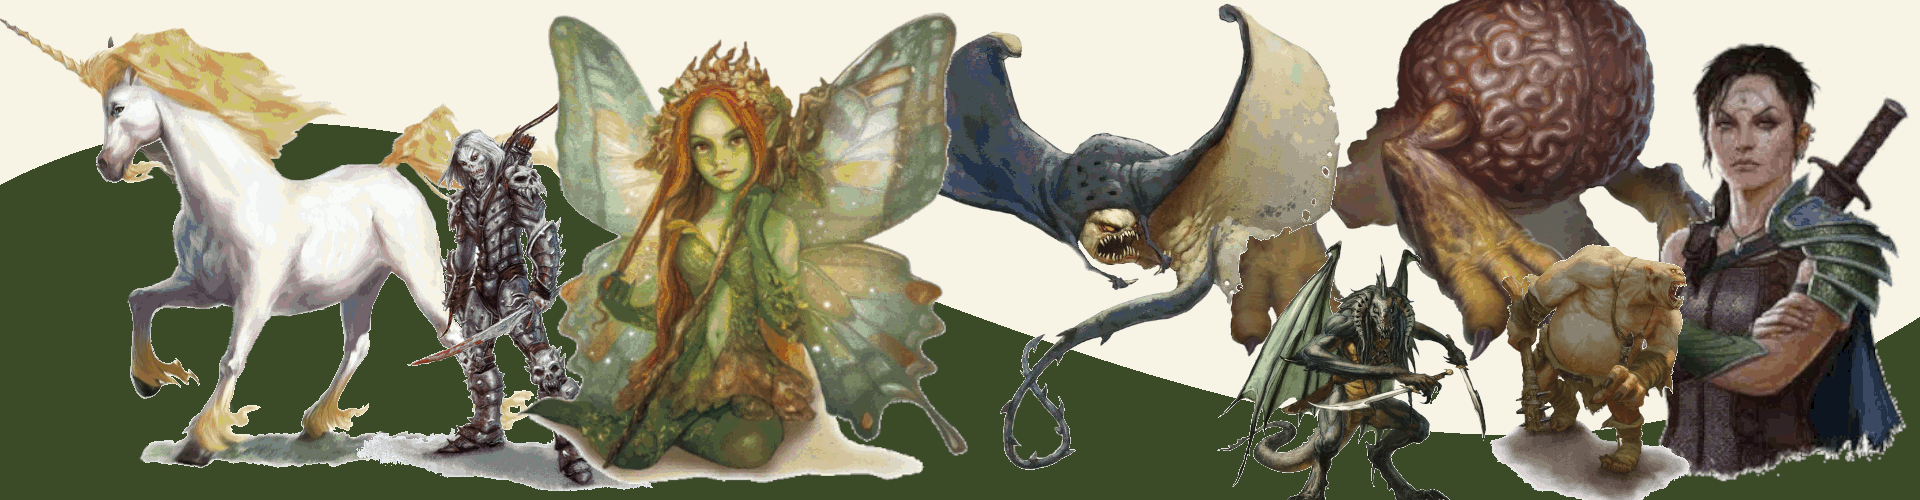
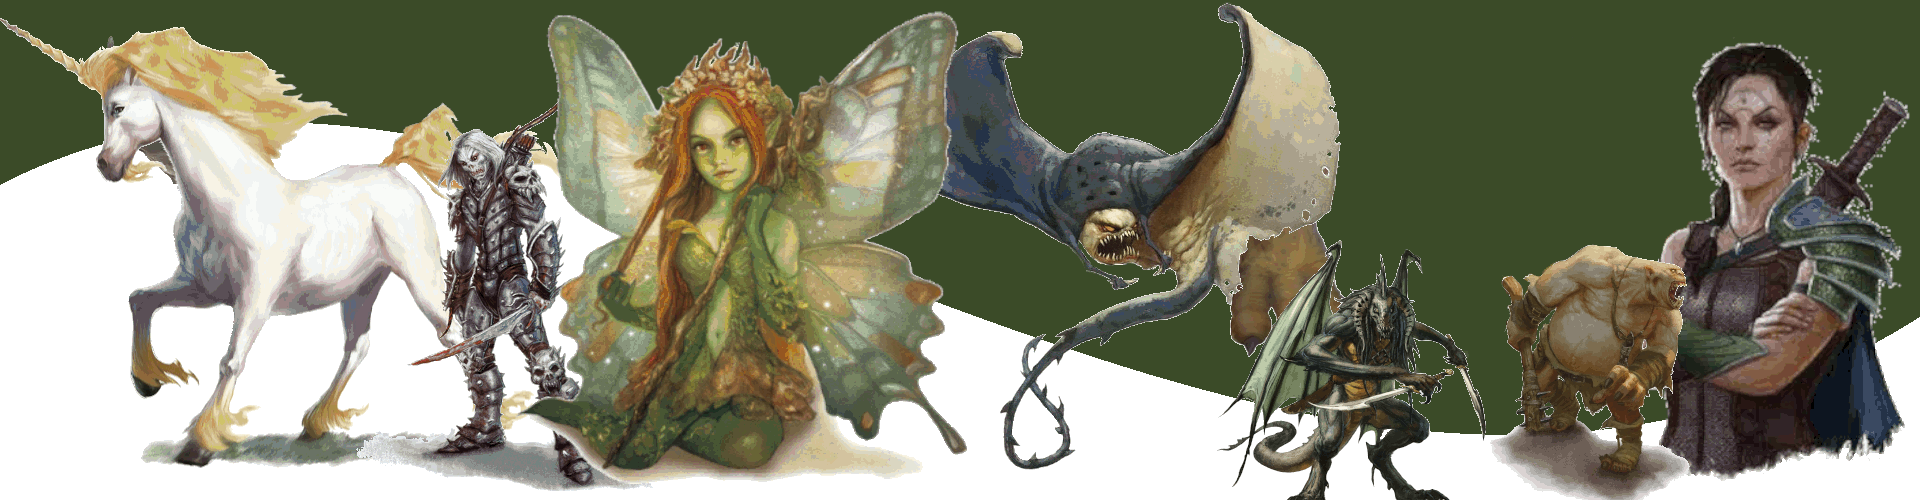
AJout design

diff --git a/src/pages/Home.js b/src/pages/Home.js
@@ -1,7 +1,76 @@
+import { Link } from 'react-router-dom'
+
 const Home = () => {
     return (
         <div className="page">
-            <h1>Home page</h1>
+            <img src="ban.png" alt="banniere du site" />
+
+            <section className="mtb-80">
+                <div className="container">
+                    <h1 className="title">MJ Virtuel</h1>
+                    <div className="pb-30">
+                        Nous vous proposons de jouer au jeu de rôles seul ou à deux, ou à plus nombreux grâce à notre <span className="txt-bold txt-green">MJ Virtuel</span>. Il vous
+                        suffira de créer votre fiche de personnage, puis de choisir un sénario et enfin de partir à l'aventure !
+                    </div>
+                    <div>
+                        <span className="txt-bold txt-green">MJ Virtuel</span> est un site communautire, qui donne la possibilité à ses membres de pouvoir jouer au jeu de rôle, mais aussi de créer vos propores
+                        sénarios. Vous pourrez les partager et les jouer avec vos amis.
+                    </div>
+                </div>
+            </section>
+
+            <section className="ptb-80 bg-gray-100">
+                <div className="container">
+                    <h1 className="title">Comment ça marche ?</h1>
+                    <div className="pb-80">
+                        C'est facile, comme dans tout jeu de rôle, commencez par créer un personnage. Si vous ne savez pas comment faire, rendez-vous
+                        sur: <a href='https://www.aidedd.org/' rel="noreferrer" className="txt-green" target="_blank">aidedd</a> où vous trouverez toute l'aide nécessaire.
+                    </div>
+                    <div className="flex flex-jc-space-around">
+                        <div className="card bg-white-100">
+                            <div className="card-title txt-center">1</div>
+                            <div className="card-body">
+                                Créez votre personnage
+                            </div>
+                        </div>
+                        <div className="card bg-white-100">
+                            <div className="card-title txt-center">2</div>
+                            <div className="card-body">
+                                Préparer vos dés
+                            </div>
+                        </div>
+                        <div className="card bg-white-100">
+                            <div className="card-title txt-center">3</div>
+                            <div className="card-body">
+                                Choissez un sénraio
+                            </div>
+                        </div>
+                        <div className="card bg-white-100">
+                            <div className="card-title txt-center">4</div>
+                            <div className="card-body">
+                                Partir à l'aventure
+                            </div>
+                        </div>
+                    </div>
+                </div>
+            </section>
+
+            <section className="ptb-80">
+                <div className="container">
+                    <h1 className="title">Créer un sénario</h1>
+                    <div className="pb-30">
+                        Un sénario, c'est comme un livre dont vous êtes le héro. Vous créer l'histoire en petit morcexu et laissez le choix au joueur de prendre telle ou telle décision.
+                        Lui jouera au dé, pour savoir s'il a réussi où non l'action. C'est vous quoi choissez le niveau de difficulté, et ce qui se passe suivant le résultat.
+                    </div>
+                    <div className="pb-80">
+                        Vous décidez aussi des rencontres et des récompenses obtenu par les héros. Pour ça il vous suffit de créer votre compte ou de vous connecter.
+                    </div>
+                    <div className="flex flex-jc-space-around">
+                        <Link className="btn btn-success" to={`/register`}>Créer voter compte</Link>
+                        <Link className="btn btn-debug" to={`/login`}>Vous connecter</Link>
+                    </div>
+                </div>
+            </section>
         </div>
     )
 }

diff --git a/src/pages/senarii/List.js b/src/pages/senarii/List.js
@@ -16,27 +16,30 @@ const List = () => {
         getVisibleSenarii()
     }, [])
 
-    return (<section>
-        <div className="container">
-            <h1 className="title-page">Listes des sénarii</h1>
-        </div>
-        <div className="container mt-30">
-            <div className="grid grid-cols-4 gap-8">
-                { senarii && senarii.map((senario) =>
-                    <div key={senario._id} className="card">
-                        <div className="card-image">
-                            <img src={senario.picture} alt={senario.title} className="" />
-                        </div>
-                        <div className="card-title">{senario.status === "Béta" && <span class="badge bg-warning">Béta</span>} {senario.title}</div>
-                        <div className="card-body">{senario.description}</div>
-                        <div className="card-footer txt-right">
-                            <Link to={`/senarii/${senario._id}`}><button className="btn btn-success">Faire ce sénario</button></Link>
-                        </div>
-                    </div>
-                )}
+    return (<>
+        <img src="ban.png" alt="banniere du site" />
+        <section className="mtb-80">
+            <div className="container">
+                <h1 className="title">Listes des sénarii</h1>
             </div>
-        </div>
-    </section>)
+            <div className="container mt-30">
+                <div className="grid grid-cols-4 gap-8">
+                    { senarii && senarii.map((senario) =>
+                        <div key={senario._id} className="card">
+                            <div className="card-image">
+                                <img src={senario.picture} alt={senario.title} className="" />
+                            </div>
+                            <div className="card-title">{senario.status === "Béta" && <span class="badge bg-warning">Béta</span>} {senario.title}</div>
+                            <div className="card-body">{senario.description}</div>
+                            <div className="card-footer txt-right">
+                                <Link to={`/senarii/${senario._id}`}><button className="btn btn-success">Faire ce sénario</button></Link>
+                            </div>
+                        </div>
+                    )}
+                </div>
+            </div>
+        </section>
+    </>)
 }
 
 export default List

diff --git a/src/Layouts/Default.js b/src/Layouts/Default.js
@@ -23,8 +23,9 @@ const Default = ({ children, isPrivate = false }) => {
         <main>
             { children }
         </main>
-        <footer className="txt-center mt-50 txt-size-11 ptb-50 txt-white-100 bg-white-1000">
-            Tous droits réservés &copy; 2021 overconsulting.net
+        <footer className="txt-center mt-50 txt-size-11 ptb-50 bg-gray-200">
+            <div>Tous droits réservés &copy; 2021 <a href='https://overconsulting.net' rel="noreferrer" className="txt-green" target="_blank">overconsulting.net</a></div>
+            <div>Image de <a href='https://www.aidedd.org/' rel="noreferrer" className="txt-green" target="_blank">aidedd</a></div>
         </footer>
     </>)
 }

diff --git a/src/components/Navbar/Navbar.js b/src/components/Navbar/Navbar.js
@@ -10,7 +10,7 @@ const Navbar =  () => {
     }
 
     return (
-        <nav className="navbar navbar-v navbar-bordered-b sticky-top bg-light">
+        <nav className="navbar navbar-v navbar-bordered-b navbar-dark sticky-top bg-green">
             <div className="navbar-title">
                 <a id="home" href="/" className="navbar-link">MJ Virtuel</a>
                 <i className="navbar-menu-icon">&#9776;</i>

diff --git a/src/styles/index.css b/src/styles/index.css
@@ -1,3 +1,18 @@
 .btn {
     display: inline-block;
 }
+
+.bg-green {
+    background: #3B4B28 !important;
+}
+
+.txt-green {
+    color: #3B4B28 !important;
+}
+
+.title {
+    color: #3B4B28 !important;
+    font-size: 3rem;
+    text-align: center;
+    margin: 0 auto 80px;
+}

diff --git a/src/styles/Default.module.css b/src/styles/Default.module.css
@@ -1,3 +1,3 @@
 body {
-    margin-top: 70px;
+    margin-top: 50px;
 }
